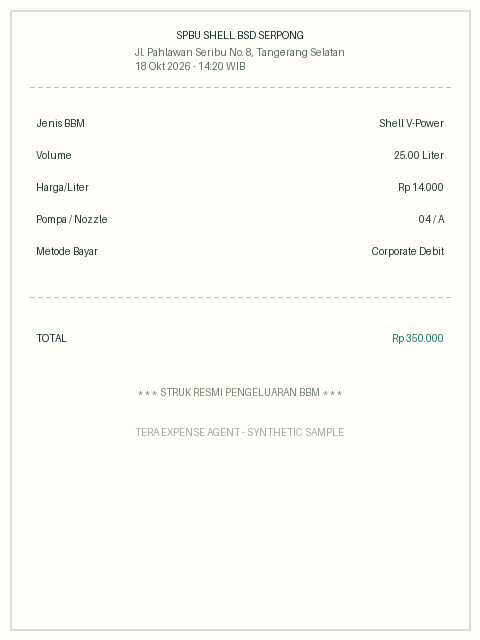
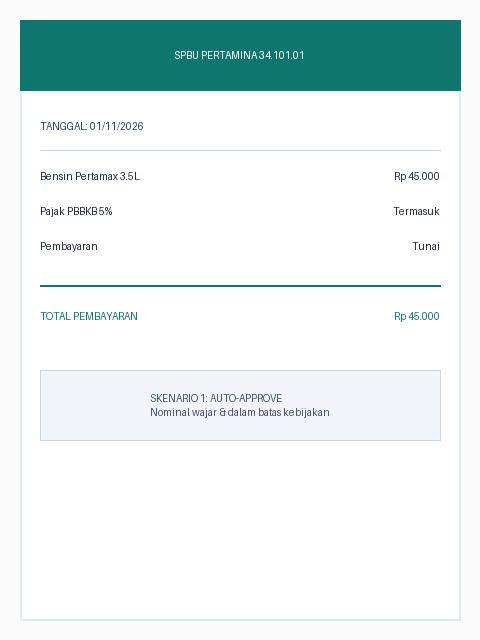
feat(demo): add interactive 1-click sample scenario cards

Changed region(s): [[0.0, 0.0312, 1.0, 1.0], [0.0938, 0.4375, 0.9062, 0.5312], [0.2812, 0.5938, 0.7188, 0.6875]]

diff --git a/frontend/src/lib/components/ClaimChat.svelte b/frontend/src/lib/components/ClaimChat.svelte
@@ -96,6 +96,32 @@
 
 	let isDragging = $state(false);
 
+	async function loadDemoScenario(scenario: 'approved' | 'clarification' | 'escalation') {
+		if (isProcessing || submittingAnswer) return;
+		let sampleUrl = '';
+		let filename = '';
+		if (scenario === 'approved') {
+			sampleUrl = '/samples/nota-bbm.png';
+			filename = 'nota-bbm.png';
+		} else if (scenario === 'clarification') {
+			sampleUrl = '/samples/nota-klarifikasi.png';
+			filename = 'nota-klarifikasi.png';
+		} else {
+			sampleUrl = '/samples/nota-anomali.png';
+			filename = 'nota-anomali.png';
+		}
+
+		try {
+			const res = await fetch(sampleUrl);
+			if (!res.ok) throw new Error('File tidak ditemukan');
+			const blob = await res.blob();
+			const file = new File([blob], filename, { type: 'image/png' });
+			handleFileSelection(file);
+		} catch {
+			showToast('Gagal memuat sampel nota demo.');
+		}
+	}
+
 	function handleFileSelection(file: File) {
 		if (isProcessing || submittingAnswer) return;
 		if (!(ALLOWED_RECEIPT_TYPES as readonly string[]).includes(file.type)) {
@@ -635,6 +661,43 @@
 				</span>
 			</button>
 			<p class="intake-note">Setelah diunggah, kamu bisa meninjau hasil dan melengkapi data yang belum terbaca.</p>
+			<div class="demo-scenarios-panel">
+				<div class="demo-scenarios-header">
+					<span class="demo-tag">PILIHAN SKENARIO DEMO GTNIC</span>
+					<p>Pilih skenario siap uji untuk mendemonstrasikan kecerdasan agen Tera:</p>
+				</div>
+				<div class="scenario-cards-grid">
+					<button
+						type="button"
+						class="scenario-card approved"
+						onclick={() => loadDemoScenario('approved')}
+					>
+						<span class="scenario-badge-pill approved">Skenario 1</span>
+						<strong>Nota BBM (Auto-Approve)</strong>
+						<span class="scenario-desc">SPBU Pertamina · Rp 45.000 · Disetujui otomatis</span>
+					</button>
+
+					<button
+						type="button"
+						class="scenario-card clarify"
+						onclick={() => loadDemoScenario('clarification')}
+					>
+						<span class="scenario-badge-pill clarify">Skenario 2</span>
+						<strong>Nota Buram (Klarifikasi AI)</strong>
+						<span class="scenario-desc">Data ambigu · Agen membuka tanya-jawab</span>
+					</button>
+
+					<button
+						type="button"
+						class="scenario-card escalated"
+						onclick={() => loadDemoScenario('escalation')}
+					>
+						<span class="scenario-badge-pill escalated">Skenario 3</span>
+						<strong>Anomali & Risiko (Reviewer)</strong>
+						<span class="scenario-desc">Nominal outlier Rp 1.250.000 · Skor anomali tinggi</span>
+					</button>
+				</div>
+			</div>
 		</div>
 	{/if}
 
@@ -749,7 +812,22 @@
 				</svg>
 				<span>{selectedFile ? 'Periksa nota' : 'Kirim jawaban'}</span>
 			</button>
-		</form>{:else if !isProcessing}<div class="next-upload"><button type="button" class="secondary" onclick={openFilePicker}>Upload nota lain</button><a href="/dashboard">Kembali ke dashboard</a></div>{/if}
+		</form>{:else if !isProcessing}
+			<div class="next-upload">
+				<div class="next-scenarios">
+					<span class="next-label">Coba skenario demo lain:</span>
+					<div class="next-buttons">
+						<button type="button" class="scenario-mini-btn approved" onclick={() => loadDemoScenario('approved')}>Skenario 1 (Auto-Approve)</button>
+						<button type="button" class="scenario-mini-btn clarify" onclick={() => loadDemoScenario('clarification')}>Skenario 2 (Klarifikasi)</button>
+						<button type="button" class="scenario-mini-btn escalated" onclick={() => loadDemoScenario('escalation')}>Skenario 3 (Eskalasi/Anomali)</button>
+					</div>
+				</div>
+				<div class="next-actions">
+					<button type="button" class="secondary" onclick={openFilePicker}>Upload nota file manual</button>
+					<a href="/dashboard">Kembali ke dashboard</a>
+				</div>
+			</div>
+		{/if}
 	{/if}
 	</div>
 	<aside class="intake-guide" aria-label="Panduan pengajuan">
@@ -1154,4 +1232,115 @@
 	@media (max-width: 1100px) { .intake-layout { grid-template-columns: minmax(0, 1fr) 248px; gap: var(--space-4); } }
 	@media (max-width: 900px) { .intake-layout { grid-template-columns: minmax(0, 1fr); } .intake-guide { grid-template-columns: repeat(2, minmax(0, 1fr)); } }
 	@media (max-width: 680px) { .intake-main { padding: var(--space-4); min-height: 0; } .intake-guide { grid-template-columns: minmax(0, 1fr); gap: var(--space-3); } .selection-summary { flex-basis: 100%; order: -1; } .send-btn { margin-left: auto; } .messages { max-height: 55dvh; } .dropzone-text strong { font-size: var(--text-md); } }
+
+	.demo-scenarios-panel {
+		margin-top: var(--space-6);
+		padding: var(--space-5);
+		border-radius: var(--radius-md);
+		background: var(--color-surface);
+		border: 1px solid var(--color-border);
+	}
+	.demo-scenarios-header {
+		display: flex;
+		flex-direction: column;
+		gap: var(--space-1);
+		margin-bottom: var(--space-4);
+	}
+	.demo-tag {
+		font-size: var(--text-xs);
+		font-weight: 700;
+		color: var(--color-primary);
+		letter-spacing: 0.08em;
+	}
+	.demo-scenarios-header p {
+		font-size: var(--text-sm);
+		color: var(--color-text-muted);
+		margin: 0;
+	}
+	.scenario-cards-grid {
+		display: grid;
+		grid-template-columns: repeat(auto-fit, minmax(220px, 1fr));
+		gap: var(--space-3);
+	}
+	.scenario-card {
+		display: flex;
+		flex-direction: column;
+		align-items: flex-start;
+		gap: var(--space-1);
+		padding: var(--space-4);
+		border-radius: var(--radius-sm);
+		border: 1px solid var(--color-border);
+		background: var(--color-paper);
+		cursor: pointer;
+		text-align: left;
+		transition: border-color var(--dur-short), transform var(--dur-short), box-shadow var(--dur-short);
+		min-height: 44px;
+	}
+	.scenario-card:hover {
+		border-color: var(--color-primary);
+		transform: translateY(-2px);
+		box-shadow: 0 4px 12px rgba(0, 0, 0, 0.05);
+	}
+	.scenario-badge-pill {
+		font-size: var(--text-xs);
+		font-weight: 600;
+		padding: 2px 8px;
+		border-radius: var(--radius-pill);
+	}
+	.scenario-badge-pill.approved { background: rgba(16, 185, 129, 0.15); color: #047857; }
+	.scenario-badge-pill.clarify { background: rgba(245, 158, 11, 0.15); color: #b45309; }
+	.scenario-badge-pill.escalated { background: rgba(239, 68, 68, 0.15); color: #b91c1c; }
+	.scenario-card strong {
+		font-size: var(--text-sm);
+		color: var(--color-text);
+		margin-top: var(--space-1);
+	}
+	.scenario-desc {
+		font-size: var(--text-xs);
+		color: var(--color-text-muted);
+		line-height: 1.4;
+	}
+	.next-scenarios {
+		display: flex;
+		flex-direction: column;
+		gap: var(--space-2);
+		margin-bottom: var(--space-4);
+		align-items: center;
+	}
+	.next-label {
+		font-size: var(--text-xs);
+		font-weight: 600;
+		color: var(--color-text-muted);
+	}
+	.next-buttons {
+		display: flex;
+		flex-wrap: wrap;
+		gap: var(--space-2);
+		justify-content: center;
+	}
+	.scenario-mini-btn {
+		font-size: var(--text-xs);
+		font-weight: 600;
+		padding: var(--space-2) var(--space-3);
+		border-radius: var(--radius-pill);
+		border: 1px solid var(--color-border);
+		background: var(--color-surface);
+		color: var(--color-text);
+		cursor: pointer;
+		min-height: 36px;
+		transition: background var(--dur-short), border-color var(--dur-short);
+	}
+	.scenario-mini-btn:hover {
+		border-color: var(--color-primary);
+		background: var(--color-soft);
+	}
+	.scenario-mini-btn.approved { border-left: 3px solid #10b981; }
+	.scenario-mini-btn.clarify { border-left: 3px solid #f59e0b; }
+	.scenario-mini-btn.escalated { border-left: 3px solid #ef4444; }
+	.next-actions {
+		display: flex;
+		gap: var(--space-3);
+		align-items: center;
+		justify-content: center;
+	}
 </style>

diff --git a/backend/app/integrations/mock.py b/backend/app/integrations/mock.py
@@ -54,10 +54,20 @@ class MockReceiptExtractor:
                 "Extractor returned malformed output.",
                 502,
             )
-        low_confidence = b"LOW_CONFIDENCE" in content and not (
-            b"RETRY_THEN_SUCCESS" in content and attempt >= 2
+
+        fname = (receipt.original_filename or "").lower()
+        low_confidence = (
+            (
+                b"LOW_CONFIDENCE" in content
+                or "klarifikasi" in fname
+                or "clarification" in fname
+                or "buram" in fname
+                or "ambigu" in fname
+            )
+            and not (b"RETRY_THEN_SUCCESS" in content and attempt >= 2)
         )
         confidence = LOW_CONFIDENCE_SCORE if low_confidence else HIGH_CONFIDENCE_SCORE
+
         category = next(
             (
                 value
@@ -66,24 +76,69 @@ class MockReceiptExtractor:
             ),
             "other",
         )
+        if category == "other":
+            if "fuel" in fname or "bbm" in fname or "spbu" in fname:
+                category = "fuel"
+            elif "meals" in fname or "makan" in fname:
+                category = "meals"
+            elif "hotel" in fname:
+                category = "hotel"
+
         receipt_date = date.today() - timedelta(days=1)
         if b"OLD_DATE" in content:
             receipt_date = date.today() - timedelta(days=20)
         elif b"FUTURE_DATE" in content:
             receipt_date = date.today() + timedelta(days=1)
-        total = declared_amount or Decimal("10000")
+
+        is_spbu = (
+            b"SPBU" in content
+            or "spbu" in fname
+            or ("bbm" in fname and b"generic-store" not in content)
+        )
+
+        is_anomaly = (
+            b"ALCOHOL" in content
+            or "anomali" in fname
+            or "anomaly" in fname
+            or "outlier" in fname
+            or "alkohol" in fname
+            or "alcohol" in fname
+            or "eskalasi" in fname
+        )
+
+        vendor = (
+            "SPBU Pertamina 34.101.01"
+            if is_spbu
+            else "Synthetic Vendor"
+        )
+
+        if is_anomaly:
+            total = declared_amount or Decimal("1250000")
+            if not is_spbu:
+                vendor = "Grand Lounge & VIP Banquet"
+            description = "Synthetic alcohol beer & VIP banquet"
+        elif category == "fuel":
+            total = declared_amount or Decimal("45000")
+            description = "Bensin Pertamax 3.5L"
+        elif category == "meals":
+            total = declared_amount or Decimal("65000")
+            vendor = "Rumah Makan Sederhana"
+            description = "Nasi Padang & Es Teh"
+        elif low_confidence:
+            total = declared_amount or Decimal("55000")
+            vendor = "Warung Makan Berkah"
+            description = "Paket Makan Siang"
+        else:
+            total = declared_amount or Decimal("10000")
+            if b"BUSINESSTRIP" in content:
+                description = "Penginapan perjalanan dinas"
+            else:
+                description = "Synthetic expense"
+
         if b"AMOUNT_MISMATCH" in content:
             total = total + Decimal("50000")
         line_total = total / 2 if b"TOTAL_MISMATCH" in content else total
-        vendor = (
-            "SPBU Pertamina 34.101.01" if b"SPBU" in content else "Synthetic Vendor"
-        )
-        if b"ALCOHOL" in content:
-            description = "Synthetic alcohol beer"
-        elif b"BUSINESSTRIP" in content:
-            description = "Penginapan perjalanan dinas"
-        else:
-            description = "Synthetic expense"
+
         now = datetime.now(UTC)
         return ExtractionResult(
             id=uuid4(),
